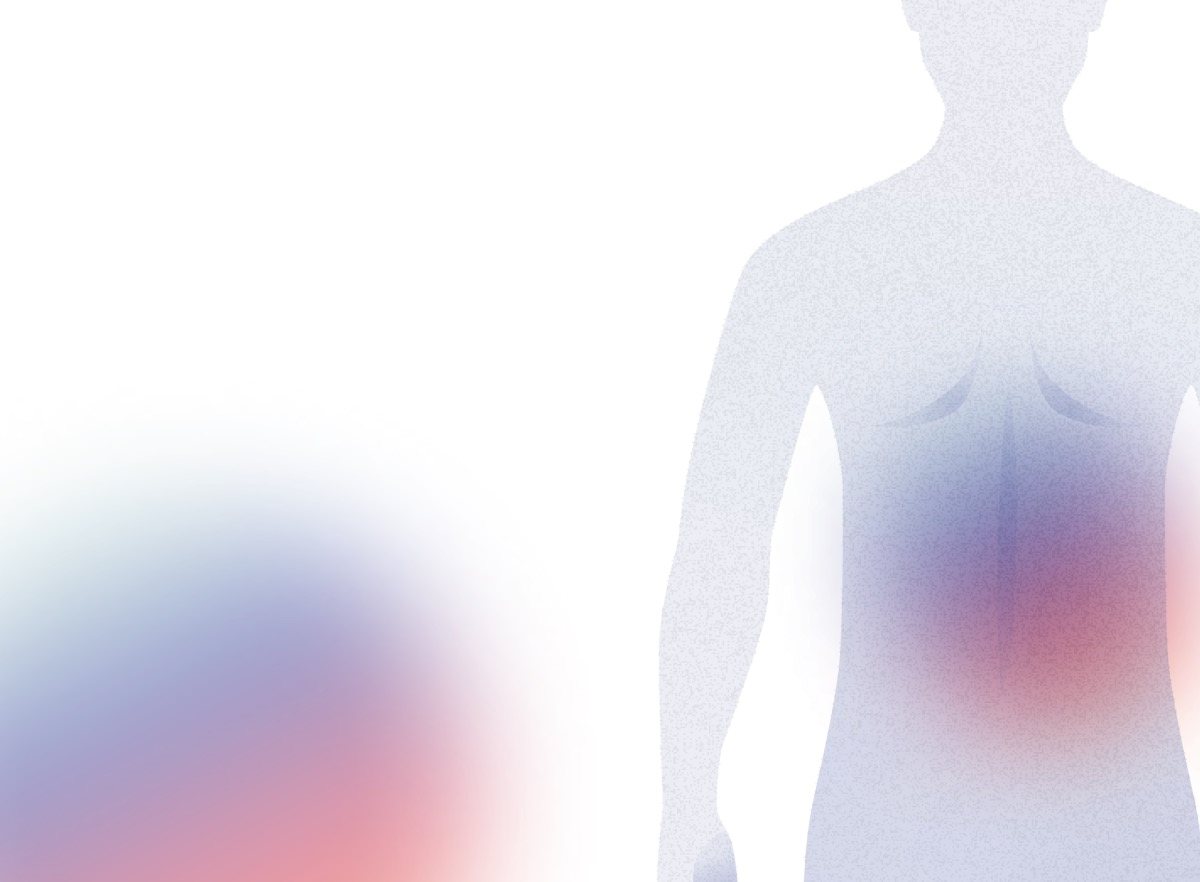
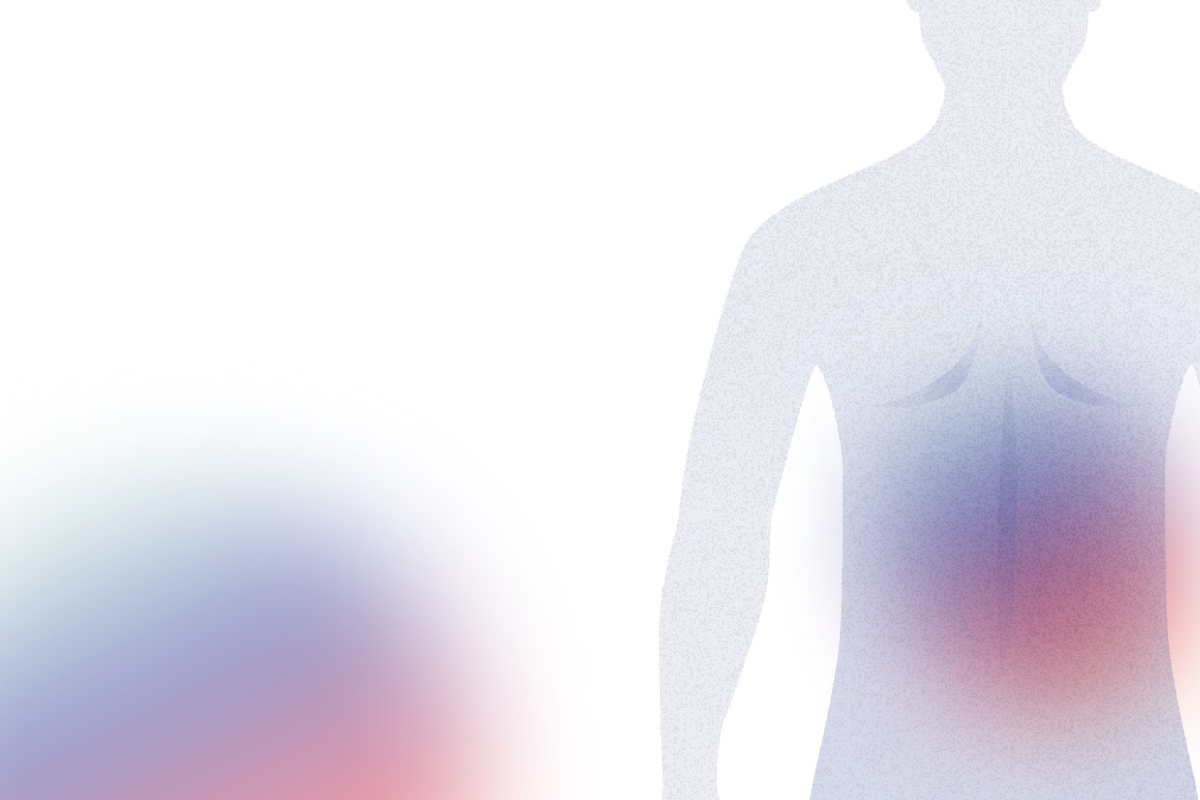
landing text

diff --git a/src/pages/Home.jsx b/src/pages/Home.jsx
@@ -2,8 +2,18 @@ import './Home.css';
 
 const Home = () => {
   return (
-    <div class="homepage">
-      <h1>We connect you to the care you need.</h1>
+    <div className="homepage">
+      <div className="title-text">
+        <h1>We connect you to the care you need.</h1>
+        <p>
+          ConnectedSpine uses the knowledge of spine care specialists to guide
+          you to the right providers.
+        </p>
+      </div>
+      <div className="instructions">
+        <p>Experiencing pain or discomfort in your back or neck?</p>
+        <p>Take our 5 min assessment.</p>
+      </div>
     </div>
   );
 };

diff --git a/src/pages/Home.css b/src/pages/Home.css
@@ -2,7 +2,20 @@
     background-image: url("../../public/Homepage.png");
     /* background-color: green; */
     background-repeat:no-repeat;
-    background-size: contain;
+    background-size: cover;
     width: 100vw;
     height: 100vh;
+    display: flex;
+    flex-direction: column;
+    justify-content: center;
+}
+
+.title-text{
+    margin-left: 5vw;
+    margin-top: 20vh;
+}
+
+.instructions{
+    margin-left: 5vw;
+    margin-top: 20vh;
 }

diff --git a/src/App.jsx b/src/App.jsx
@@ -2,7 +2,6 @@ import './App.css';
 import Home from './pages/Home';
 
 const App = () => {
-
   return <Home />;
 };
 
